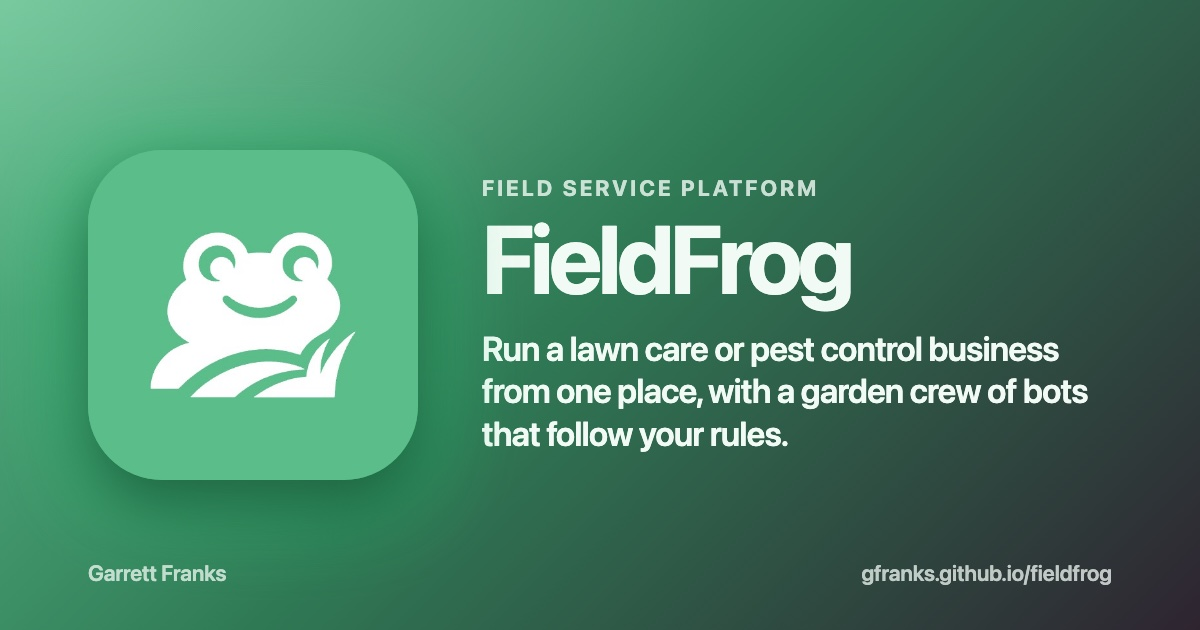
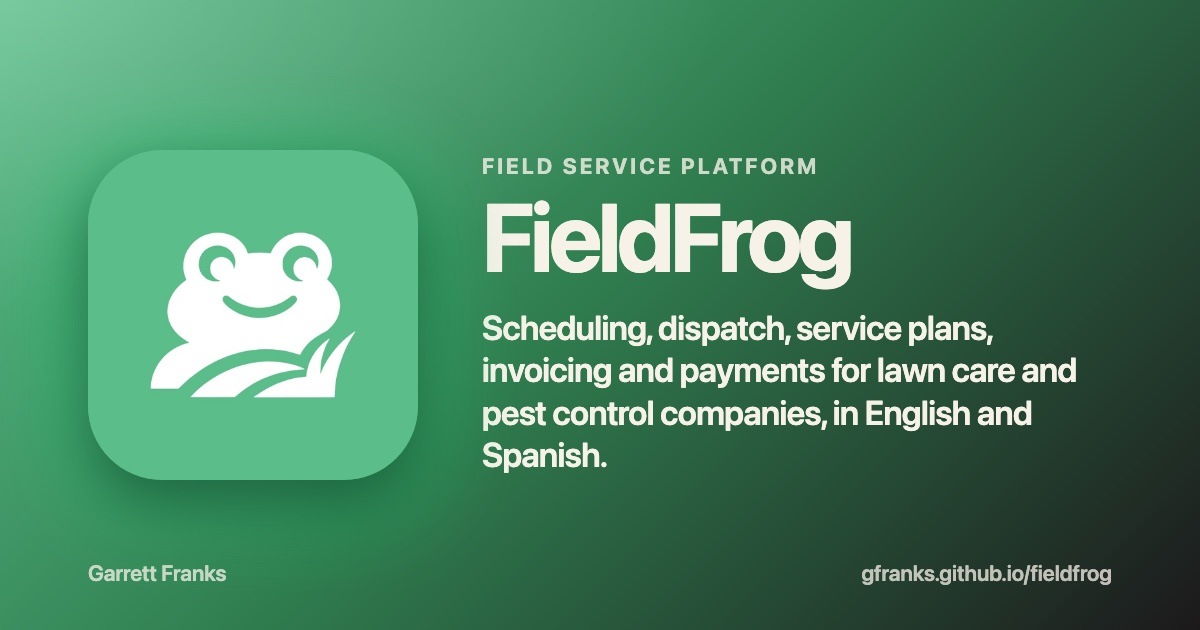
FieldFrog: current stack and copy, launching soon, new iPhone screens, /pyllar/ redirects
Claude-Session: https://claude.ai/code/session_01MtSoMm39iP5BmdeM2bsxEE

Changed region(s): [[0.4008, 0.2413, 0.925, 0.754]]

diff --git a/fieldfrog/index.html b/fieldfrog/index.html
@@ -4,23 +4,23 @@
 <meta charset="utf-8">
 <meta name="viewport" content="width=device-width, initial-scale=1, viewport-fit=cover">
 <title>FieldFrog — Garrett Franks</title>
-<meta name="description" content="FieldFrog: Run a lawn care or pest control business from one place, with a garden crew of bots that follow your rules.">
+<meta name="description" content="FieldFrog: Scheduling, dispatch, service plans, invoicing and payments for lawn care and pest control companies, in English and Spanish.">
 <link rel="canonical" href="https://gfranks.github.io/fieldfrog/">
 <meta property="og:type" content="website">
 <meta property="og:site_name" content="Garrett Franks">
 <meta property="og:url" content="https://gfranks.github.io/fieldfrog/">
 <meta property="og:title" content="FieldFrog — Garrett Franks">
-<meta property="og:description" content="FieldFrog: Run a lawn care or pest control business from one place, with a garden crew of bots that follow your rules.">
-<meta property="og:image" content="https://gfranks.github.io/assets/og/fieldfrog.jpg?v=08044415">
+<meta property="og:description" content="FieldFrog: Scheduling, dispatch, service plans, invoicing and payments for lawn care and pest control companies, in English and Spanish.">
+<meta property="og:image" content="https://gfranks.github.io/assets/og/fieldfrog.jpg?v=1bd22628">
 <meta property="og:image:width" content="1200">
 <meta property="og:image:height" content="630">
 <meta property="og:image:alt" content="FieldFrog — Garrett Franks">
 <meta name="twitter:card" content="summary_large_image">
-<meta name="twitter:image" content="https://gfranks.github.io/assets/og/fieldfrog.jpg?v=08044415">
+<meta name="twitter:image" content="https://gfranks.github.io/assets/og/fieldfrog.jpg?v=1bd22628">
 <link rel="icon" type="image/jpeg" href="/assets/icons/fieldfrog.jpg">
 <link rel="apple-touch-icon" href="/assets/icons/fieldfrog.jpg">
 <link rel="stylesheet" href="/assets/base.css?v=ab7e61ff">
-<link rel="stylesheet" href="/assets/themes.css?v=dfc509af">
+<link rel="stylesheet" href="/assets/themes.css?v=4f5e4230">
 <link rel="stylesheet" href="/assets/app.css?v=fdc37ae4">
 <script src="/assets/home.js?v=643a0d84" defer></script>
 </head>
@@ -30,59 +30,61 @@
     <a class="back" href="/"><svg class="ic" viewBox="0 0 16 16" aria-hidden="true"><path d="M10 3 5 8l5 5" fill="none" stroke="currentColor" stroke-width="1.6" stroke-linecap="round" stroke-linejoin="round"/></svg> Garrett Franks</a>
     <div class="hero-grid">
       <div class="hero-copy">
-        <img class="hero-icon" src="/assets/icons/fieldfrog.jpg?v=74218e30" alt="" width="512" height="512">
+        <img class="hero-icon" src="/assets/icons/fieldfrog.jpg?v=aa859c04" alt="" width="512" height="512">
         <h1>FieldFrog</h1>
-        <p class="hero-kind">Field service platform · Web now, mobile in progress</p>
-        <p class="hero-tagline">Run a lawn care or pest control business from one place, with a garden crew of bots that follow your rules.</p>
-        <div class="hero-actions"><a class="hero-store" href="https://usefieldfrog.com">usefieldfrog.com <svg class="ic" viewBox="0 0 16 16" aria-hidden="true"><path d="M5 11 11 5M6 5h5v5" fill="none" stroke="currentColor" stroke-width="1.6" stroke-linecap="round" stroke-linejoin="round"/></svg></a><span class="hero-status">In development</span></div>
+        <p class="hero-kind">Field service platform · iPhone, iPad, Android &amp; web</p>
+        <p class="hero-tagline">Scheduling, dispatch, service plans, invoicing and payments for lawn care and pest control companies, in English and Spanish.</p>
+        <div class="hero-actions"><a class="hero-store" href="https://usefieldfrog.com">usefieldfrog.com <svg class="ic" viewBox="0 0 16 16" aria-hidden="true"><path d="M5 11 11 5M6 5h5v5" fill="none" stroke="currentColor" stroke-width="1.6" stroke-linecap="round" stroke-linejoin="round"/></svg></a><span class="hero-status">Launching soon</span></div>
       </div>
-      <div class="hero-phones"><img class="phone rear device-framed" src="/assets/devices/fieldfrog/02-visit.webp?v=4e1dc56f" alt="A pest control visit&#x27;s status steps and the product applied" width="538" height="1100" decoding="async"><img class="phone front device-framed" src="/assets/devices/fieldfrog/01-bots.webp?v=8e9700d9" alt="The six bots, each on or asleep, with what it does" width="538" height="1100" decoding="async"></div>
+      <div class="hero-phones"><img class="phone rear device-framed" src="/assets/devices/fieldfrog/02-today.webp?v=a6810637" alt="A tech&#x27;s day, stop by stop with drive times, a late warning and the week&#x27;s weather" width="538" height="1100" decoding="async"><img class="phone front device-framed" src="/assets/devices/fieldfrog/01-home.webp?v=56189d85" alt="The owner&#x27;s Home: money collected this month, today&#x27;s progress and what needs them" width="538" height="1100" decoding="async"></div>
     </div>
   </header>
 
   <main>
     <section class="block" aria-labelledby="about-title">
       <div class="bento overview">
-        <div class="tile rise tilt about" style="--i:0"><h2 id="about-title">About</h2><p>FieldFrog is my company&#x27;s field service software for lawn care and pest control, rebuilt from the ground up by C&amp;F Solutions LLC, in English and Spanish from the first screen. Owners run the day from a web app, customers pay and reschedule in their own portal, and native iOS and Android apps are in progress.</p></div>
-        <div class="tile rise tilt" style="--i:1"><p class="label">Status</p><p class="value">In development</p><a class="tile-link" href="https://usefieldfrog.com">usefieldfrog.com <svg class="ic" viewBox="0 0 16 16" aria-hidden="true"><path d="M5 11 11 5M6 5h5v5" fill="none" stroke="currentColor" stroke-width="1.6" stroke-linecap="round" stroke-linejoin="round"/></svg></a></div>
-        <div class="tile rise tilt" style="--i:2"><p class="label">Platforms</p><p class="value">Web now, mobile in progress</p><p class="note">Field service platform</p></div>
-        <div class="tile rise tilt wide" style="--i:3"><p class="label">Built with</p><ul class="chips"><li>TypeScript</li><li>Next.js</li><li>Fastify</li><li>PostgreSQL</li><li>Drizzle</li><li>Zod &amp; OpenAPI</li><li>WebSocket</li><li>Stripe</li><li>MapLibre</li><li>Kotlin Multiplatform</li></ul></div>
+        <div class="tile rise tilt about" style="--i:0"><h2 id="about-title">About</h2><p>A multi-tenant SaaS for lawn care and pest control companies, built by my company, C&amp;F Solutions LLC. Owners and the office run the business from the web app, techs work their day from one app on iPhone, iPad and Android, and customers pay and request service through their own portal. Everything is in English and Spanish, including what customers receive.</p></div>
+        <div class="tile rise tilt" style="--i:1"><p class="label">Status</p><p class="value">Launching soon</p><a class="tile-link" href="https://usefieldfrog.com">usefieldfrog.com <svg class="ic" viewBox="0 0 16 16" aria-hidden="true"><path d="M5 11 11 5M6 5h5v5" fill="none" stroke="currentColor" stroke-width="1.6" stroke-linecap="round" stroke-linejoin="round"/></svg></a></div>
+        <div class="tile rise tilt" style="--i:2"><p class="label">Platforms</p><p class="value">iPhone, iPad, Android &amp; web</p><p class="note">Field service platform</p></div>
+        <div class="tile rise tilt wide" style="--i:3"><p class="label">Built with</p><ul class="chips"><li>Flutter</li><li>Dart</li><li>Riverpod</li><li>MapLibre</li><li>ActivityKit</li><li>TypeScript</li><li>Next.js</li><li>Fastify</li><li>PostgreSQL</li><li>Drizzle</li><li>Stripe</li></ul></div>
       </div>
     </section>
 
     <section class="block" aria-labelledby="built-title">
       <h2 class="block-title" id="built-title">What I built</h2>
       <div class="bento built">
-        <div class="tile rise tilt" style="--i:0;--span:2"><span class="num" aria-hidden="true">01</span><p>A garden crew of six bots, Remi the frog, Skip the turtle, Penny the bee, Stella the ladybug, Boomer the bunny and Tally the dragonfly, handle reminders, rescheduling, billing, reviews, win-back and a weekly summary. They follow fixed rules rather than AI, and the owner sets each action to do it, ask first, suggest, only note it or never.</p></div>
-        <div class="tile rise tilt" style="--i:1;--span:1"><span class="num" aria-hidden="true">02</span><p>Next.js owner web app, customer portal and internal staff portal on a TypeScript Fastify API, with PostgreSQL row-level security per company that fails closed, and live updates over a WebSocket.</p></div>
-        <div class="tile rise tilt" style="--i:2;--span:2"><span class="num" aria-hidden="true">03</span><p>A modular monolith: every write goes through one command that checks permission, idempotency and status rules and writes the audit row and event in one transaction, and a Postgres-backed queue delivers events and runs jobs.</p></div>
-        <div class="tile rise tilt" style="--i:3;--span:1"><span class="num" aria-hidden="true">04</span><p>Outside services sit behind swappable providers with fakes for tests: Stripe Connect payments, Census geocoding, OpenFreeMap maps, and Tomorrow.io or OpenWeatherMap weather.</p></div>
-        <div class="tile rise tilt" style="--i:4;--span:3"><span class="num" aria-hidden="true">05</span><p>Industry packs for lawn and pest, including product application records per visit, and TypeScript, Swift and Kotlin clients generated from one API contract for a Kotlin Multiplatform core with native SwiftUI and Compose screens.</p></div>
+        <div class="tile rise tilt" style="--i:0;--span:2"><span class="num" aria-hidden="true">01</span><p>One Flutter app for iPhone, iPad and Android (Riverpod, go_router) with the web app&#x27;s side navigation and tablet layouts, MapLibre maps, location sharing only while clocked in, and a Lock Screen Live Activity for the clock-in on iPhone.</p></div>
+        <div class="tile rise tilt" style="--i:1;--span:1"><span class="num" aria-hidden="true">02</span><p>A Next.js company web app, customer portal, staff portal and marketing site on a TypeScript Fastify API, with PostgreSQL row-level security on every tenant table and Drizzle.</p></div>
+        <div class="tile rise tilt" style="--i:2;--span:2"><span class="num" aria-hidden="true">03</span><p>Each feature is a module with a manifest. Every write is a tracked command that checks a permission, writes the audit trail and emits an event in one transaction, and other modules react to the events.</p></div>
+        <div class="tile rise tilt" style="--i:3;--span:1"><span class="num" aria-hidden="true">04</span><p>API clients for Dart, TypeScript, Swift and Kotlin, design tokens and strings are generated from one source, and a missing Spanish string fails the check.</p></div>
+        <div class="tile rise tilt" style="--i:4;--span:2"><span class="num" aria-hidden="true">05</span><p>Seven rule-based bots, not AI: Remi, Skip, Penny, Stella, Boomer, Tally and Scout handle reminders, rescheduling, billing follow-ups, reviews, win-backs, a weekly report and quality spot checks, each off until the owner previews what it sends.</p></div>
+        <div class="tile rise tilt" style="--i:5;--span:1"><span class="num" aria-hidden="true">06</span><p>Stripe Connect for card and bank payments, saved cards and autopay, with every charge keyed to an intent committed before the call so a retry can&#x27;t charge twice.</p></div>
+        <div class="tile rise tilt" style="--i:6;--span:3"><span class="num" aria-hidden="true">07</span><p>Automated checks on every change: a browser walk from sign-up to payment in both trades and both languages, with screenshots at 390 and 1440 px, accessibility checks, module boundary and consistency rules, and a secret scan.</p></div>
       </div>
     </section>
 
     <section class="block screens" aria-labelledby="screens-title">
       <h2 class="block-title" id="screens-title">Screens</h2>
       <div class="gallery" tabindex="0" role="region" aria-label="FieldFrog screens, scrolls sideways">
-        <img class="shot device-framed" src="/assets/devices/fieldfrog/01-bots.webp?v=8e9700d9" alt="The six bots, each on or asleep, with what it does" width="538" height="1100" decoding="async">
-        <img class="shot device-framed" src="/assets/devices/fieldfrog/02-visit.webp?v=4e1dc56f" alt="A pest control visit&#x27;s status steps and the product applied" width="538" height="1100" decoding="async">
-        <img class="shot device-framed" src="/assets/devices/fieldfrog/03-report.webp?v=b54162bb" alt="A preview of the visit report the customer sees" width="538" height="1100" decoding="async">
-        <img class="shot device-framed" src="/assets/devices/fieldfrog/04-bot-levels.webp?v=5e77477c" alt="Choosing what Penny may do: does it, asks first, only notes it or never" width="538" height="1100" decoding="async">
-        <img class="shot device-framed" src="/assets/devices/fieldfrog/05-customer.webp?v=ca5ee1e2" alt="A customer&#x27;s visits, invoices and messages, newest first" width="538" height="1100" decoding="async">
-        <img class="shot device-framed" src="/assets/devices/fieldfrog/06-reports.webp?v=1558566a" alt="Reports: money collected this month, by day and by how it was paid" width="538" height="1100" decoding="async">
+        <img class="shot device-framed" src="/assets/devices/fieldfrog/01-home.webp?v=56189d85" alt="The owner&#x27;s Home: money collected this month, today&#x27;s progress and what needs them" width="538" height="1100" decoding="async">
+        <img class="shot device-framed" src="/assets/devices/fieldfrog/02-today.webp?v=a6810637" alt="A tech&#x27;s day, stop by stop with drive times, a late warning and the week&#x27;s weather" width="538" height="1100" decoding="async">
+        <img class="shot device-framed" src="/assets/devices/fieldfrog/03-visit.webp?v=ab146d95" alt="A visit on site, with directions, a call button, payment and the gate code" width="538" height="1100" decoding="async">
+        <img class="shot device-framed" src="/assets/devices/fieldfrog/04-payment.webp?v=5c22a7f8" alt="Recording a cash payment at the door" width="538" height="1100" decoding="async">
+        <img class="shot device-framed" src="/assets/devices/fieldfrog/05-menu.webp?v=45364e8f" alt="The side menu: Home, Schedule, Customers, Quality, Plans, Sales, Money, Reports, Messages and Bots" width="538" height="1100" decoding="async">
+        <img class="shot device-framed" src="/assets/devices/fieldfrog/06-clock-in.webp?v=8b60dd15" alt="The clock-in sheet with the first stop and the time" width="538" height="1100" decoding="async">
       </div>
     </section>
 
     <section class="block" aria-labelledby="arch-title">
       <h2 class="block-title" id="arch-title">How it fits together</h2>
       <div class="arch">
-        <div class="tier rise" style="--i:0"><h3>Clients</h3><ul style="--cols:2"><li><strong>Web app</strong><span>Next.js, for owners and office</span></li><li><strong>Customer portal</strong><span>Next.js, sign in by code, pay, reschedule</span></li><li><strong>Staff portal</strong><span>Next.js, MFA, audit log</span></li><li><strong>iOS &amp; Android</strong><span>In progress: Kotlin Multiplatform core, native screens</span></li></ul></div>
-        <p class="flow rise" style="--i:0"><span>generated clients, HTTPS and a live WebSocket</span></p>
-        <div class="tier rise" style="--i:1"><h3>API (TypeScript, Fastify)</h3><ul style="--cols:2"><li><strong>Modules</strong><span>Customers, plans, schedule, billing, bots</span></li><li><strong>command()</strong><span>Permission, idempotency, audit, event</span></li><li><strong>Live hub</strong><span>WebSocket topics per role</span></li><li><strong>Auth guard</strong><span>Sessions, roles, rate limits</span></li></ul></div>
-        <p class="flow rise" style="--i:1"><span>one transaction per write, events in the same commit</span></p>
-        <div class="tier rise" style="--i:2"><h3>Data &amp; jobs</h3><ul style="--cols:2"><li><strong>PostgreSQL</strong><span>Row-level security per company</span></li><li><strong>Events</strong><span>Partitioned by month</span></li><li><strong>Worker</strong><span>Postgres queue, listeners, scheduled jobs</span></li><li><strong>Industry packs</strong><span>Lawn and pest, English and Spanish</span></li></ul></div>
-        <p class="flow rise" style="--i:2"><span>provider interfaces, with fakes in tests</span></p>
-        <div class="tier rise" style="--i:3"><h3>Outside</h3><ul style="--cols:2"><li><strong>Stripe</strong><span>Connect payments and subscriptions</span></li><li><strong>Census</strong><span>Geocoding</span></li><li><strong>OpenFreeMap</strong><span>Map tiles for MapLibre</span></li><li><strong>Weather</strong><span>Tomorrow.io or OpenWeatherMap</span></li></ul></div>
+        <div class="tier rise" style="--i:0"><h3>Clients</h3><ul style="--cols:3"><li><strong>Phone app</strong><span>Flutter, iPhone, iPad and Android</span></li><li><strong>Web app</strong><span>Next.js, for owners and the office</span></li><li><strong>Customer portal</strong><span>Next.js, pay and request service</span></li><li><strong>Staff portal</strong><span>Next.js, MFA and audit log</span></li><li><strong>Marketing site</strong><span>Next.js, English and Spanish</span></li></ul></div>
+        <p class="flow rise" style="--i:0"><span>generated API clients, HTTPS and WebSocket</span></p>
+        <div class="tier rise" style="--i:1"><h3>API (TypeScript, Fastify)</h3><ul style="--cols:2"><li><strong>Modules</strong><span>One per feature, tracked commands</span></li><li><strong>Worker</strong><span>Delivers events, runs jobs</span></li><li><strong>Bots</strong><span>Seven rule-based modules</span></li><li><strong>Live updates</strong><span>WebSocket from Postgres notifications</span></li></ul></div>
+        <p class="flow rise" style="--i:1"><span>events written in the same transaction</span></p>
+        <div class="tier rise" style="--i:2"><h3>Data &amp; jobs</h3><ul style="--cols:3"><li><strong>PostgreSQL</strong><span>Row-level security, Drizzle</span></li><li><strong>Queue</strong><span>Events and jobs on Postgres</span></li><li><strong>Cloudflare R2</strong><span>Photos and files</span></li></ul></div>
+        <p class="flow rise" style="--i:2"><span>provider adapters, never inside a transaction</span></p>
+        <div class="tier rise" style="--i:3"><h3>Outside</h3><ul style="--cols:2"><li><strong>Stripe</strong><span>Payments and subscriptions</span></li><li><strong>Resend</strong><span>Email</span></li><li><strong>APNs &amp; FCM</strong><span>Push</span></li><li><strong>QuickBooks</strong><span>One-way sync</span></li></ul></div>
       </div>
     </section>
 

diff --git a/index.html b/index.html
@@ -11,17 +11,17 @@
 <meta property="og:url" content="https://gfranks.github.io/">
 <meta property="og:title" content="Garrett Franks">
 <meta property="og:description" content="Mobile technical lead · iOS &amp; Android. I lead mobile teams and build apps end to end, from the first sketch to the App Store: Swift and SwiftUI, Kotlin and Compose, and the web and backend behind them.">
-<meta property="og:image" content="https://gfranks.github.io/assets/og/home.jpg?v=cf688c57">
+<meta property="og:image" content="https://gfranks.github.io/assets/og/home.jpg?v=959a2e87">
 <meta property="og:image:width" content="1200">
 <meta property="og:image:height" content="630">
 <meta property="og:image:alt" content="Garrett Franks">
 <meta name="twitter:card" content="summary_large_image">
-<meta name="twitter:image" content="https://gfranks.github.io/assets/og/home.jpg?v=cf688c57">
+<meta name="twitter:image" content="https://gfranks.github.io/assets/og/home.jpg?v=959a2e87">
 <link rel="icon" type="image/svg+xml" href="/assets/favicon.svg?v=899bf783">
 <link rel="icon" href="/favicon.ico?v=88900e7a" sizes="48x48">
 <link rel="apple-touch-icon" href="/assets/apple-touch-icon.png?v=1cdace26">
 <link rel="stylesheet" href="/assets/base.css?v=ab7e61ff">
-<link rel="stylesheet" href="/assets/themes.css?v=dfc509af">
+<link rel="stylesheet" href="/assets/themes.css?v=4f5e4230">
 <link rel="stylesheet" href="/assets/home.css?v=d606dbea">
 <script src="/assets/home.js?v=643a0d84" defer></script>
 </head>
@@ -65,12 +65,12 @@
           <img class="peek rear device-framed" src="/assets/devices/arkive/03-reader.webp?v=75b32299" alt="The chapter reader with an engraving above John 3" width="538" height="1100" decoding="async"><img class="peek front device-framed" src="/assets/devices/arkive/01-feed.webp?v=138d169a" alt="The verse feed, one verse to a page" width="538" height="1100" decoding="async">
         </article>
         <article class="tile rise tilt app-tile" data-app="fieldfrog" style="--i:2">
-          <img class="tile-icon" src="/assets/icons/fieldfrog.jpg?v=74218e30" alt="" width="512" height="512">
-          <p class="kind">Field service platform <span class="status">In development</span></p>
+          <img class="tile-icon" src="/assets/icons/fieldfrog.jpg?v=aa859c04" alt="" width="512" height="512">
+          <p class="kind">Field service platform <span class="status">Launching soon</span></p>
           <h3><a class="tile-main" href="/fieldfrog/">FieldFrog<span class="sr-only">: see how it's built</span></a></h3>
-          <p class="tagline">Run a lawn care or pest control business from one place, with a garden crew of bots that follow your rules.</p>
+          <p class="tagline">Scheduling, dispatch, service plans, invoicing and payments for lawn care and pest control companies, in English and Spanish.</p>
           <p class="tile-links"><span class="cue" aria-hidden="true">See how it's built <svg class="ic" viewBox="0 0 16 16" aria-hidden="true"><path d="M3 8h10M9 4l4 4-4 4" fill="none" stroke="currentColor" stroke-width="1.6" stroke-linecap="round" stroke-linejoin="round"/></svg></span><a class="secondary" href="https://usefieldfrog.com">usefieldfrog.com <svg class="ic" viewBox="0 0 16 16" aria-hidden="true"><path d="M5 11 11 5M6 5h5v5" fill="none" stroke="currentColor" stroke-width="1.6" stroke-linecap="round" stroke-linejoin="round"/></svg></a></p>
-          <img class="peek rear device-framed" src="/assets/devices/fieldfrog/02-visit.webp?v=4e1dc56f" alt="A pest control visit&#x27;s status steps and the product applied" width="538" height="1100" decoding="async"><img class="peek front device-framed" src="/assets/devices/fieldfrog/01-bots.webp?v=8e9700d9" alt="The six bots, each on or asleep, with what it does" width="538" height="1100" decoding="async">
+          <img class="peek rear device-framed" src="/assets/devices/fieldfrog/02-today.webp?v=a6810637" alt="A tech&#x27;s day, stop by stop with drive times, a late warning and the week&#x27;s weather" width="538" height="1100" decoding="async"><img class="peek front device-framed" src="/assets/devices/fieldfrog/01-home.webp?v=56189d85" alt="The owner&#x27;s Home: money collected this month, today&#x27;s progress and what needs them" width="538" height="1100" decoding="async">
         </article>
         <article class="tile rise tilt app-tile" data-app="tyde" style="--i:3">
           <img class="tile-icon" src="/assets/icons/tyde.jpg?v=72a8ea02" alt="" width="512" height="512">

diff --git a/assets/themes.css b/assets/themes.css
@@ -8,7 +8,7 @@
 }
 [data-app="fieldfrog"] {
   --bg: #FFFDF8; --bg-app: #F7F2E8; --text: #2E2430; --text-secondary: #6F636B;
-  --accent: #2F7A55; --accent-ink: #ffffff; --hero-top: #2F7A55; --hero-bottom: #2E2430; --hero-ink: #F1FAF4;
+  --accent: #2F7D4F; --accent-ink: #ffffff; --hero-top: #2F7D4F; --hero-bottom: #1C191B; --hero-ink: #F7F2E8;
   --card-border: rgba(46, 36, 48, 0.10); --rule: rgba(46, 36, 48, 0.12); --glow: #5BBE8A;
 }
 [data-app="tyde"] {
@@ -34,9 +34,9 @@
     --card-border: rgba(242, 236, 225, 0.10); --rule: rgba(242, 236, 225, 0.12);
   }
   :root:not([data-theme="light"])[data-app="fieldfrog"] {
-    --bg: #241D25; --bg-app: #1A151B; --text: #F4ECEF; --text-secondary: #B3A6AE;
-    --accent: #5BBE8A; --accent-ink: #1A151B; --hero-top: #2A6B4B; --hero-bottom: #1A151B;
-    --card-border: rgba(244, 236, 239, 0.10); --rule: rgba(244, 236, 239, 0.12);
+    --bg: #262124; --bg-app: #1C191B; --text: #F3EDE4; --text-secondary: #A89DA4;
+    --accent: #6FCB9A; --accent-ink: #2E2430; --hero-top: #1E3D2B; --hero-bottom: #1C191B;
+    --card-border: rgba(243, 237, 228, 0.10); --rule: rgba(243, 237, 228, 0.12);
   }
   :root:not([data-theme="light"])[data-app="tyde"] {
     --bg: #16161F; --bg-app: #0B0B12; --text: #F5F4FB; --text-secondary: #9793B0;

diff --git a/404.html b/404.html
@@ -11,12 +11,12 @@
 <meta property="og:url" content="https://gfranks.github.io/404.html">
 <meta property="og:title" content="Page not found — Garrett Franks">
 <meta property="og:description" content="Page not found.">
-<meta property="og:image" content="https://gfranks.github.io/assets/og/home.jpg?v=cf688c57">
+<meta property="og:image" content="https://gfranks.github.io/assets/og/home.jpg?v=959a2e87">
 <meta property="og:image:width" content="1200">
 <meta property="og:image:height" content="630">
 <meta property="og:image:alt" content="Page not found — Garrett Franks">
 <meta name="twitter:card" content="summary_large_image">
-<meta name="twitter:image" content="https://gfranks.github.io/assets/og/home.jpg?v=cf688c57">
+<meta name="twitter:image" content="https://gfranks.github.io/assets/og/home.jpg?v=959a2e87">
 <link rel="icon" type="image/svg+xml" href="/assets/favicon.svg?v=899bf783">
 <link rel="icon" href="/favicon.ico?v=88900e7a" sizes="48x48">
 <link rel="apple-touch-icon" href="/assets/apple-touch-icon.png?v=1cdace26">

diff --git a/pyllar/index.html b/pyllar/index.html
@@ -2,13 +2,12 @@
 <html lang="en">
 <head>
 <meta charset="utf-8">
-<meta name="viewport" content="width=device-width, initial-scale=1">
 <title>FieldFrog — Garrett Franks</title>
-<link rel="canonical" href="https://gfranks.github.io/fieldfrog/">
 <meta name="robots" content="noindex">
+<link rel="canonical" href="https://gfranks.github.io/fieldfrog/">
 <meta http-equiv="refresh" content="0; url=/fieldfrog/">
 </head>
 <body>
-<p>Pyllar is now FieldFrog: <a href="/fieldfrog/">gfranks.github.io/fieldfrog</a>.</p>
+  <p><a href="/fieldfrog/">FieldFrog</a></p>
 </body>
 </html>

diff --git a/whispercourt/index.html b/whispercourt/index.html
@@ -20,7 +20,7 @@
 <link rel="icon" type="image/jpeg" href="/assets/icons/whispercourt.jpg">
 <link rel="apple-touch-icon" href="/assets/icons/whispercourt.jpg">
 <link rel="stylesheet" href="/assets/base.css?v=ab7e61ff">
-<link rel="stylesheet" href="/assets/themes.css?v=dfc509af">
+<link rel="stylesheet" href="/assets/themes.css?v=4f5e4230">
 <link rel="stylesheet" href="/assets/app.css?v=fdc37ae4">
 <script src="/assets/home.js?v=643a0d84" defer></script>
 </head>

diff --git a/candidly/index.html b/candidly/index.html
@@ -20,7 +20,7 @@
 <link rel="icon" type="image/jpeg" href="/assets/icons/candidly.jpg">
 <link rel="apple-touch-icon" href="/assets/icons/candidly.jpg">
 <link rel="stylesheet" href="/assets/base.css?v=ab7e61ff">
-<link rel="stylesheet" href="/assets/themes.css?v=dfc509af">
+<link rel="stylesheet" href="/assets/themes.css?v=4f5e4230">
 <link rel="stylesheet" href="/assets/app.css?v=fdc37ae4">
 <script src="/assets/home.js?v=643a0d84" defer></script>
 </head>

diff --git a/arkive/index.html b/arkive/index.html
@@ -20,7 +20,7 @@
 <link rel="icon" type="image/jpeg" href="/assets/icons/arkive.jpg">
 <link rel="apple-touch-icon" href="/assets/icons/arkive.jpg">
 <link rel="stylesheet" href="/assets/base.css?v=ab7e61ff">
-<link rel="stylesheet" href="/assets/themes.css?v=dfc509af">
+<link rel="stylesheet" href="/assets/themes.css?v=4f5e4230">
 <link rel="stylesheet" href="/assets/app.css?v=fdc37ae4">
 <script src="/assets/home.js?v=643a0d84" defer></script>
 </head>

diff --git a/tyde/index.html b/tyde/index.html
@@ -20,7 +20,7 @@
 <link rel="icon" type="image/jpeg" href="/assets/icons/tyde.jpg">
 <link rel="apple-touch-icon" href="/assets/icons/tyde.jpg">
 <link rel="stylesheet" href="/assets/base.css?v=ab7e61ff">
-<link rel="stylesheet" href="/assets/themes.css?v=dfc509af">
+<link rel="stylesheet" href="/assets/themes.css?v=4f5e4230">
 <link rel="stylesheet" href="/assets/app.css?v=fdc37ae4">
 <script src="/assets/home.js?v=643a0d84" defer></script>
 </head>

diff --git a/whispercourt/privacy/index.html b/whispercourt/privacy/index.html
@@ -20,7 +20,7 @@
 <link rel="icon" type="image/jpeg" href="/assets/icons/whispercourt.jpg">
 <link rel="apple-touch-icon" href="/assets/icons/whispercourt.jpg">
 <link rel="stylesheet" href="/assets/legal.css?v=2d90d8d8">
-<link rel="stylesheet" href="/assets/themes.css?v=dfc509af">
+<link rel="stylesheet" href="/assets/themes.css?v=4f5e4230">
 </head>
 <body>
 

diff --git a/whispercourt/support/index.html b/whispercourt/support/index.html
@@ -20,7 +20,7 @@
 <link rel="icon" type="image/jpeg" href="/assets/icons/whispercourt.jpg">
 <link rel="apple-touch-icon" href="/assets/icons/whispercourt.jpg">
 <link rel="stylesheet" href="/assets/legal.css?v=2d90d8d8">
-<link rel="stylesheet" href="/assets/themes.css?v=dfc509af">
+<link rel="stylesheet" href="/assets/themes.css?v=4f5e4230">
 </head>
 <body>
 

diff --git a/whispercourt/terms/index.html b/whispercourt/terms/index.html
@@ -20,7 +20,7 @@
 <link rel="icon" type="image/jpeg" href="/assets/icons/whispercourt.jpg">
 <link rel="apple-touch-icon" href="/assets/icons/whispercourt.jpg">
 <link rel="stylesheet" href="/assets/legal.css?v=2d90d8d8">
-<link rel="stylesheet" href="/assets/themes.css?v=dfc509af">
+<link rel="stylesheet" href="/assets/themes.css?v=4f5e4230">
 </head>
 <body>
 
